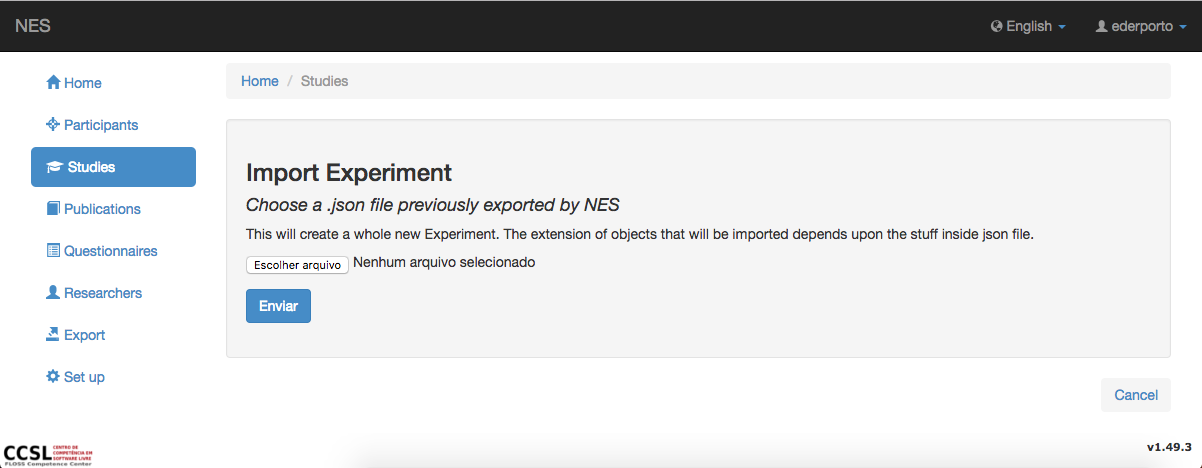
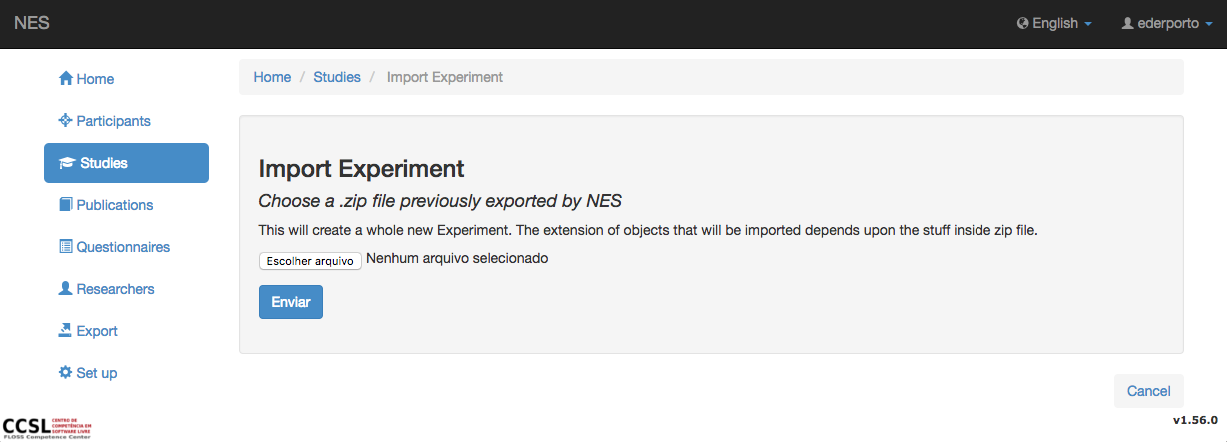
Updating documentation due to import and export functionality

diff --git a/patientregistrationsystem/qdc/experiment/templates/experiment/experiment_import.html b/patientregistrationsystem/qdc/experiment/templates/experiment/experiment_import.html
@@ -68,12 +68,12 @@
             {% else %}
                 <h3>{% trans "Import Study/Experiment" %}</h3>
             {% endif %}
-            <h4><em>{% trans "Choose a .json file previously exported by NES" %}</em></h4>
+            <h4><em>{% trans "Choose a .zip file previously exported by NES" %}</em></h4>
             <p>
                 {% if research_project_id %}
                     {% trans "This will create a whole new Experiment. The extension of objects that will be imported depends upon the stuff inside json file." %}
                 {% else %}
-                    {% trans "This will create a whole new Study/Experiment. The extension of objects that will be imported depends upon the stuff inside json file." %}
+                    {% trans "This will create a whole new Study/Experiment. The extension of objects that will be imported depends upon the stuff inside zip file." %}
                 {% endif %}
             </p>
             <form method="post" enctype="multipart/form-data">

diff --git a/patientregistrationsystem/qdc/experiment/views.py b/patientregistrationsystem/qdc/experiment/views.py
@@ -838,7 +838,7 @@ def experiment_import(request, template_name='experiment/experiment_import.html'
     if not patients_conflicts_resolved:
         file = request.FILES.get('file')
         if not file:
-            messages.warning(request, _('Please select a json file'))
+            messages.warning(request, _('Please select a zip file'))
             return HttpResponseRedirect(reverse('experiment_import'))
 
         file_name = handle_uploaded_file(file)

diff --git a/docs/userguide/studies.rst b/docs/userguide/studies.rst
@@ -35,7 +35,7 @@ You can see more information about an existing study by clicking on its title in
 
 Importing an study
 ------------------
-You can import an study with one experiment in the studies listing page through the `Import Study/Experiment` button. A page will load asking for the .json file with all the necessary data to create a new study and experiment. This .json file can be generated by exporting an experiment in the experiment list of the study (see more details about this list bellow).
+You can import an study with one experiment in the studies listing page through the `Import Study/Experiment` button. A page will load asking for the .zip file with all the necessary data to create a new study and experiment. This .zip file can be generated by exporting an experiment in the experiment list of the study (see more details about this list bellow).
 
 .. image:: ../_img/study_import.png
 
@@ -50,18 +50,20 @@ Experiments of a study
 ----------------------
 A study may have multiple :ref:`experiments`. Again, only users that have :ref:`permissions` to update a study can add experiments. Non-authorized users can't see the `Insert new` button.
 
-A list with all experiments that belongs to the study will be shown. You may make a copy of an experiment by clicking on the `Copy experiment` icon. A modal will pop up and you have to choose if you want to copy the experiment with or without data. You may also get a PDF version of the experiment by clicking on the `Create PDF` icon and you can export an experiment by clicking the `Export experiment` icon. This will generate a .json file with all the necessary structure of the experiment that can be later imported in other study or NES installation. And finally, if you can import a experiment from a .json file previously exported by NES into the study you are visualizing if you have the right permissions for it.
+A list with all experiments that belongs to the study will be shown. You may make a copy of an experiment by clicking on the `Copy experiment` icon. A modal will pop up and you have to choose if you want to copy the experiment with or without data. You may also get a PDF version of the experiment by clicking on the `Create PDF` icon and you can export an experiment by clicking the `Export experiment` icon. This will generate a .zip file with all the necessary structure of the experiment that can be later imported in other study or NES installation along with data collections of the participants of the experiment if there is any. And finally, if you can import a experiment from a .zip file previously exported by NES into the study you are visualizing if you have the right permissions for it.
 
 .. image:: ../_img/experiment_view.png
 
 Exporting/Importing a Experiment of a Study
 -------------------------------------------
 
-In the list of experiments of a study (see image above), you can click the `Export experiment` button of an experiment and generate a .json file with all the necessary data to create a copy of this experiment into another study or NES installation.
+In the list of experiments of a study (see image above), you can click the `Export experiment` button of an experiment and generate a .zip file with all the necessary data to create a copy of this experiment into another study or NES installation along with participants' personal data and data collections if there is any.
 
-Still on this page, you can import an experiment into this study by clicking the `Import experiment` button. A new page will load where you have to upload the .json file of the experiment exported by NES. Once you upload it and send it, a new study will be created, with new groups and experimental protocols.
+Still on this page, you can import an experiment into this study by clicking the `Import experiment` button. A new page will load where you have to upload the .zip file of the experiment exported by NES. Once you upload it and send it, if there'is any conflict between participants in the database, you will be asked to choose either if you want to update the participants in the database or create new ones. After that, a new study will be created, with new groups, experimental protocols and data collections.
 
 .. image:: ../_img/experiment_import.png
+
+.. image:: ../_img/decide_about_participants.png
 
 .. toctree::
    :maxdepth: 1
